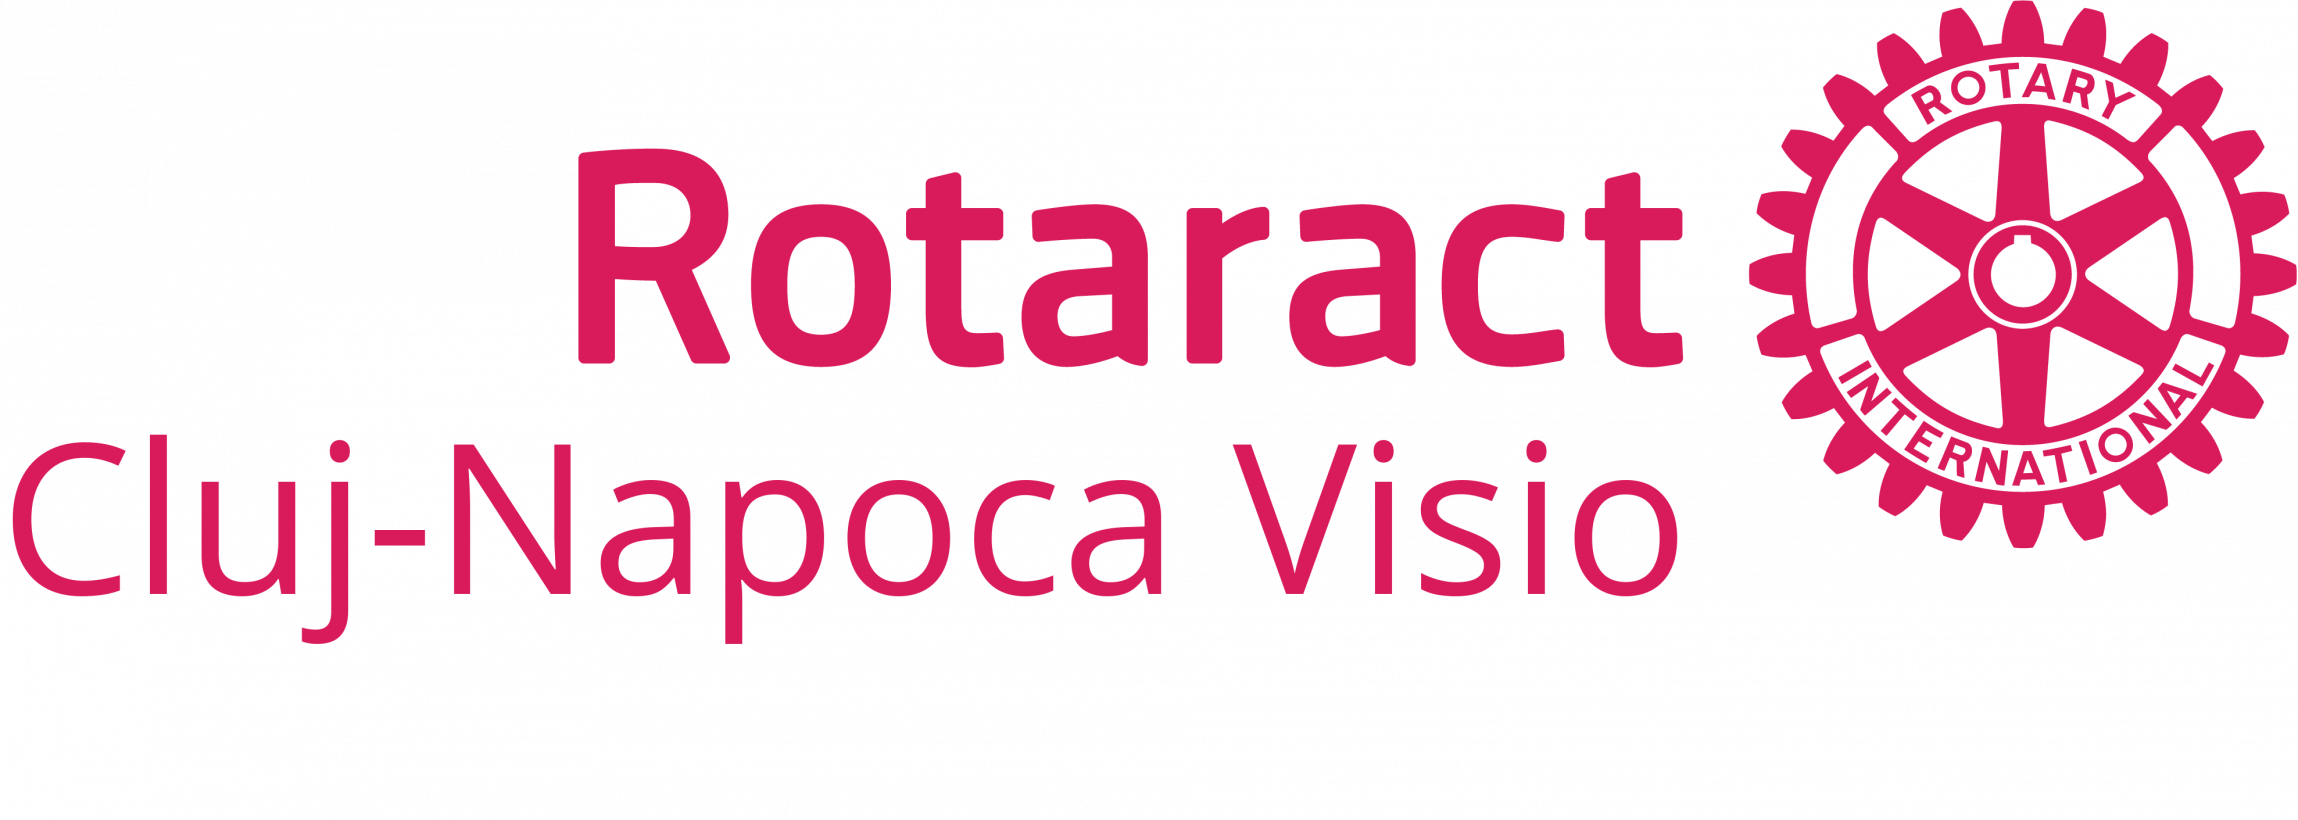
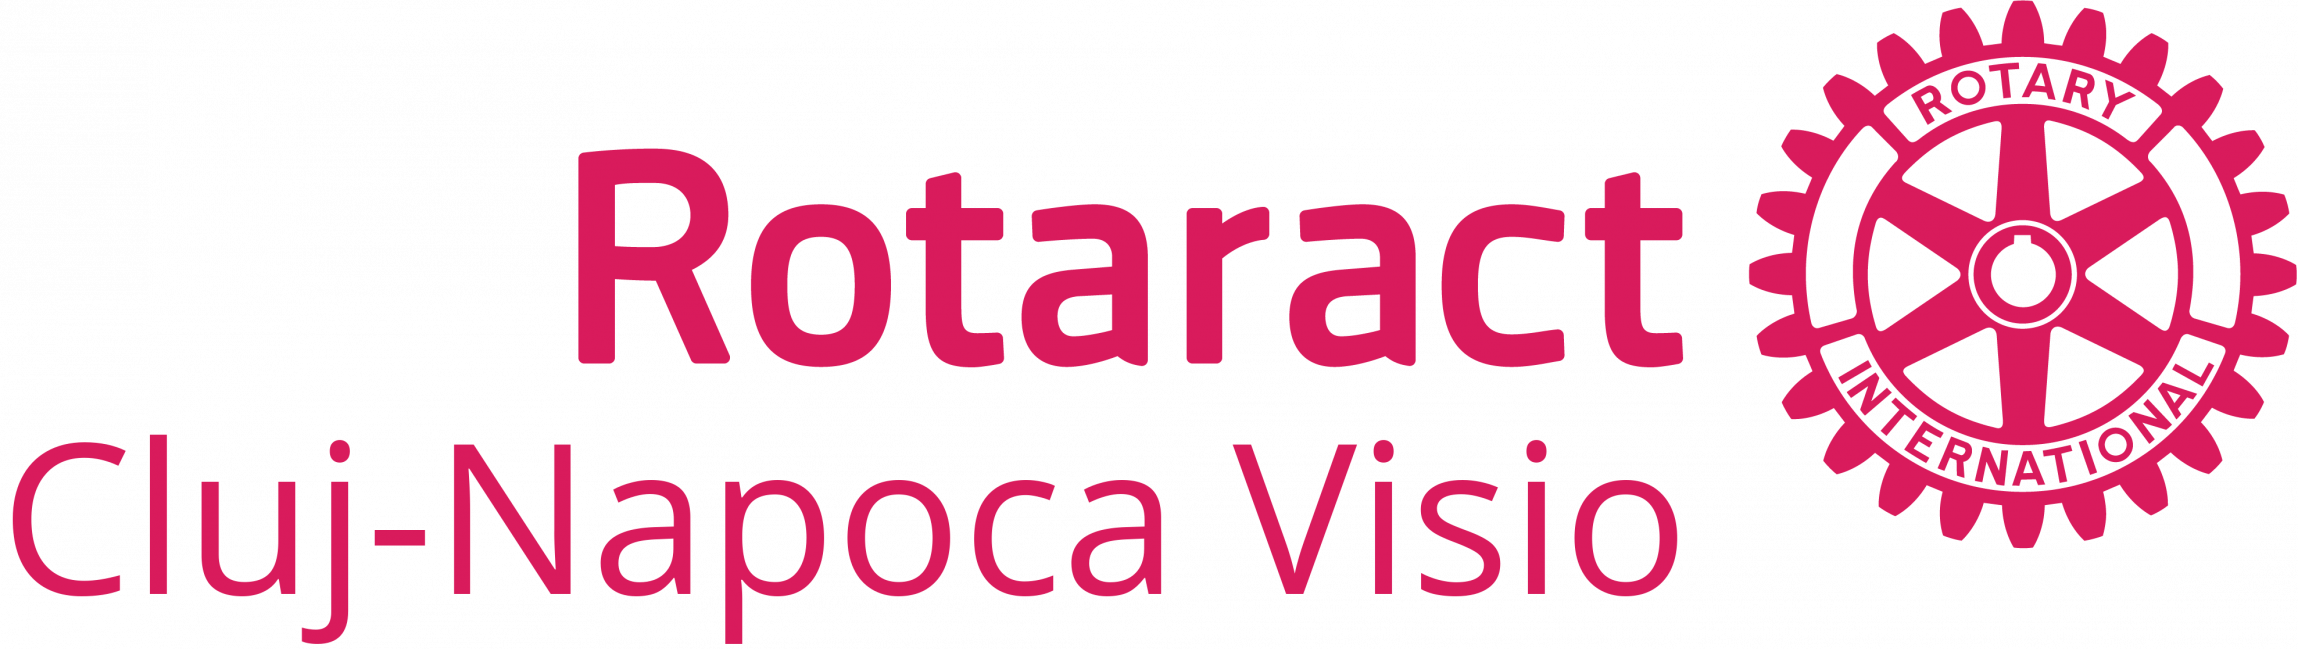
navbar design changes

Changed region(s): [[0.0, 0.0308, 1.0, 1.0], [0.9269, 0.0308, 0.9578, 0.0616], [0.1236, 0.5239, 0.1545, 0.5547]]

diff --git a/components/ui/navigation/Navigation.tsx b/components/ui/navigation/Navigation.tsx
@@ -15,144 +15,76 @@ import {
     navigationMenuTriggerStyle,
 } from "@/components/ui/navigation-menu"
 
+import { Menu } from 'lucide-react'
+
 import logo from '../../../assets/images/visio.png'
 import { ModeToggle } from "../ModeToggle"
-
-const components: { title: string; href: string; description: string }[] = [
-    {
-        title: "Alert Dialog",
-        href: "/docs/primitives/alert-dialog",
-        description:
-            "A modal dialog that interrupts the user with important content and expects a response.",
-    },
-    {
-        title: "Hover Card",
-        href: "/docs/primitives/hover-card",
-        description:
-            "For sighted users to preview content available behind a link.",
-    },
-    {
-        title: "Progress",
-        href: "/docs/primitives/progress",
-        description:
-            "Displays an indicator showing the completion progress of a task, typically displayed as a progress bar.",
-    },
-    {
-        title: "Scroll-area",
-        href: "/docs/primitives/scroll-area",
-        description: "Visually or semantically separates content.",
-    },
-    {
-        title: "Tabs",
-        href: "/docs/primitives/tabs",
-        description:
-            "A set of layered sections of content—known as tab panels—that are displayed one at a time.",
-    },
-    {
-        title: "Tooltip",
-        href: "/docs/primitives/tooltip",
-        description:
-            "A popup that displays information related to an element when the element receives keyboard focus or the mouse hovers over it.",
-    },
-]
+import { Button } from "../button"
+import { Separator } from "../separator"
 
 export function Navigation() {
     return (
-        <>
-            <Image
-                src={logo}
-                alt="Rotaract logo"
-                height={50}
-                className="fixed top-4 left-16"
-            />
-            <NavigationMenu className="fixed top-4 right-16">
-                <NavigationMenuList>
-                    <NavigationMenuItem>
-                        <NavigationMenuTrigger>Getting started</NavigationMenuTrigger>
-                        <NavigationMenuContent>
-                            <ul className="grid gap-3 p-6 md:w-[400px] lg:w-[500px] lg:grid-cols-[.75fr_1fr]">
-                                <li className="row-span-3">
-                                    <NavigationMenuLink asChild>
-                                        <a
-                                            className="flex h-full w-full select-none flex-col justify-end rounded-md bg-gradient-to-b from-muted/50 to-muted p-6 no-underline outline-none focus:shadow-md"
-                                            href="/"
-                                        >
-                                            <div className="mb-2 mt-4 text-lg font-medium">
-                                                shadcn/ui
-                                            </div>
-                                            <p className="text-sm leading-tight text-muted-foreground">
-                                                Beautifully designed components built with Radix UI and
-                                                Tailwind CSS.
-                                            </p>
-                                        </a>
-                                    </NavigationMenuLink>
-                                </li>
-                                <ListItem href="/docs" title="Introduction">
-                                    Re-usable components built using Radix UI and Tailwind CSS.
-                                </ListItem>
-                                <ListItem href="/docs/installation" title="Installation">
-                                    How to install dependencies and structure your app.
-                                </ListItem>
-                                <ListItem href="/docs/primitives/typography" title="Typography">
-                                    Styles for headings, paragraphs, lists...etc
-                                </ListItem>
-                            </ul>
-                        </NavigationMenuContent>
-                    </NavigationMenuItem>
-                    <NavigationMenuItem>
-                        <NavigationMenuTrigger>Components</NavigationMenuTrigger>
-                        <NavigationMenuContent>
-                            <ul className="grid w-[400px] gap-3 p-4 md:w-[500px] md:grid-cols-2 lg:w-[600px] ">
-                                {components.map((component) => (
-                                    <ListItem
-                                        key={component.title}
-                                        title={component.title}
-                                        href={component.href}
-                                    >
-                                        {component.description}
-                                    </ListItem>
-                                ))}
-                            </ul>
-                        </NavigationMenuContent>
-                    </NavigationMenuItem>
-                    <NavigationMenuItem>
-                        <Link href="/docs" legacyBehavior passHref>
-                            <NavigationMenuLink className={navigationMenuTriggerStyle()}>
-                                Documentation
-                            </NavigationMenuLink>
+        <div className="fixed top-0 w-full z-10 bg-inherit">
+            <nav className="flex justify-between my-3 mx-16 max-md:mx-4 max-h-12 items-center">
+                <Link href="/">
+                    <Image
+                        src={logo}
+                        alt="Rotaract logo"
+                        height={40}
+                        className="sticky top-4 left-16 max-md:top-4 max-md:left-8"
+                        quality={100}
+                    />
+                </Link>
+                <ul className="flex flex-row gap-1 max-md:hidden">
+                    <li>
+                        <Link
+                            className={navigationMenuTriggerStyle()}
+                            href="/"
+                        >
+                            Home
                         </Link>
-                    </NavigationMenuItem>
-                    <NavigationMenuItem>
+                    </li>
+                    <li>
+                        <Link
+                            className={navigationMenuTriggerStyle()}
+                            href="/about"
+                        >
+                            About us
+                        </Link>
+                    </li>
+                    <li>
+                        <Link
+                            className={navigationMenuTriggerStyle()}
+                            href="/projects"
+                        >
+                            Projects
+                        </Link>
+                    </li>
+                    <li>
+                        <Link
+                            className={navigationMenuTriggerStyle()}
+                            href="/members"
+                        >
+                            Members
+                        </Link>
+                    </li>
+                    <li>
+                        <Link
+                            className={navigationMenuTriggerStyle()}
+                            href="/contact"
+                        >
+                            Contact
+                        </Link>
+                    </li>
+                    <li>
                         <ModeToggle />
-                    </NavigationMenuItem>
-                </NavigationMenuList>
-            </NavigationMenu>
-        </>
+                    </li>
+                </ul>
+                <Button variant="outline" size="icon" className="max-md:flex hidden">
+                    <Menu className="h-4 w-4" />
+                </Button>
+            </nav>
+            <Separator />
+        </div>
     )
 }
-
-const ListItem = React.forwardRef<
-    React.ElementRef<"a">,
-    React.ComponentPropsWithoutRef<"a">
->(({ className, title, children, ...props }, ref) => {
-    return (
-        <li>
-            <NavigationMenuLink asChild>
-                <a
-                    ref={ref}
-                    className={cn(
-                        "block select-none space-y-1 rounded-md p-3 leading-none no-underline outline-none transition-colors hover:bg-accent hover:text-accent-foreground focus:bg-accent focus:text-accent-foreground",
-                        className
-                    )}
-                    {...props}
-                >
-                    <div className="text-sm font-medium leading-none">{title}</div>
-                    <p className="line-clamp-2 text-sm leading-snug text-muted-foreground">
-                        {children}
-                    </p>
-                </a>
-            </NavigationMenuLink>
-        </li>
-    )
-})
-ListItem.displayName = "ListItem"

diff --git a/app/layout.tsx b/app/layout.tsx
@@ -21,7 +21,9 @@ export default function RootLayout({
       <body className={inter.className}>
         <ThemeProvider attribute="class" defaultTheme="system" enableSystem>
           <Navigation />
-          {children}
+          <div className='mt-20 mx-16 max-md:mx-4'>
+            {children}
+          </div>
         </ThemeProvider>
       </body>
     </html>

diff --git a/app/page.tsx b/app/page.tsx
@@ -1,8 +1,8 @@
 
 export default function Home() {
   return (
-    <main className="flex flex-col items-center justify-center h-screen">
-      <h1 className="text-9xl font-bold">Coming soon.</h1>
+    <main className="flex justify-center items-center h-[500px]">
+      <h1 className="text-9xl font-bold max-md:text-4xl">Coming soon.</h1>
     </main>
   )
 }
